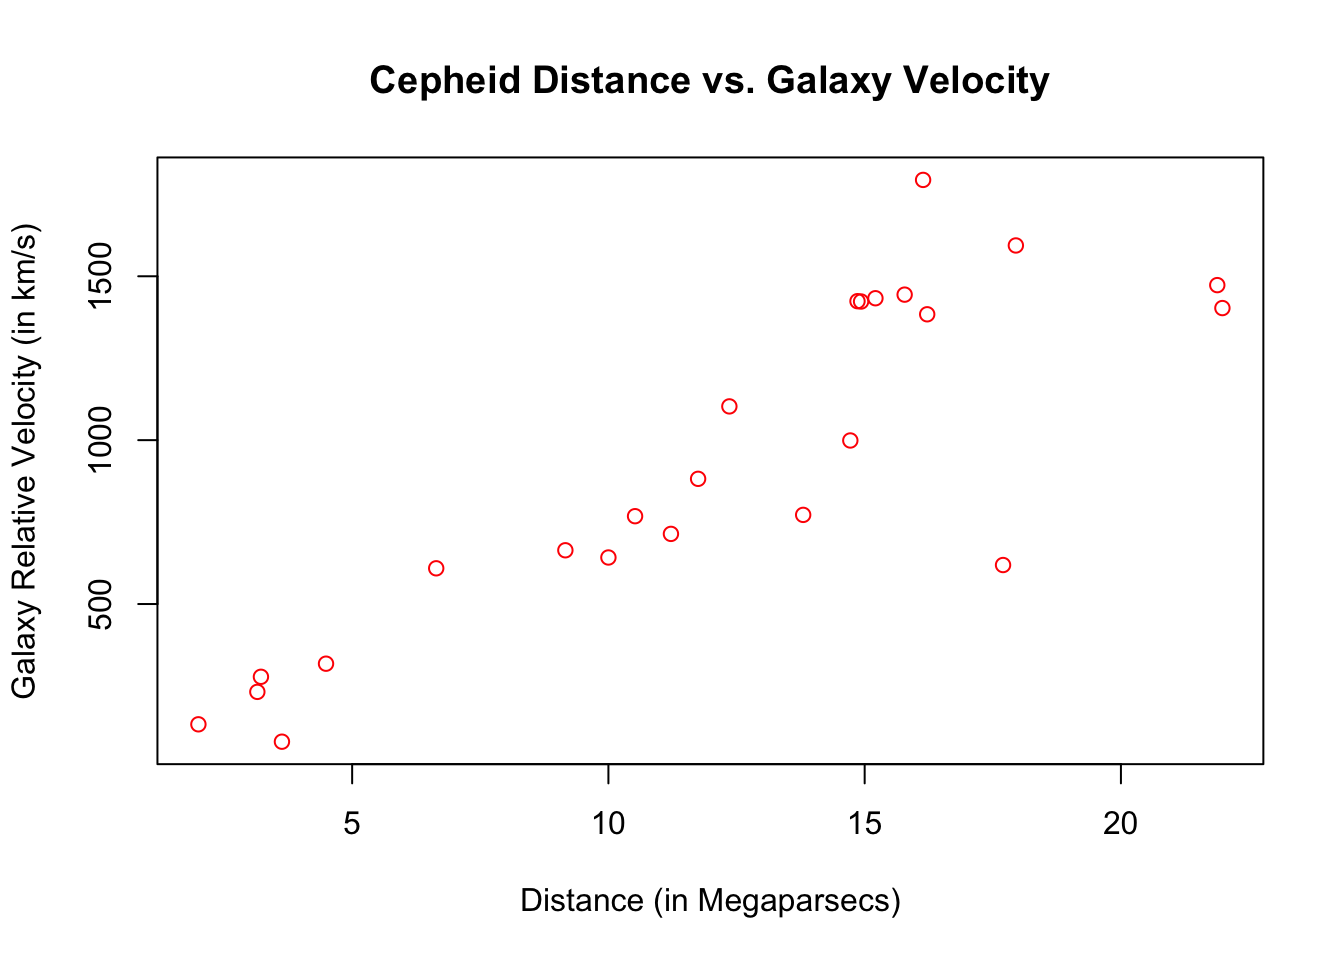
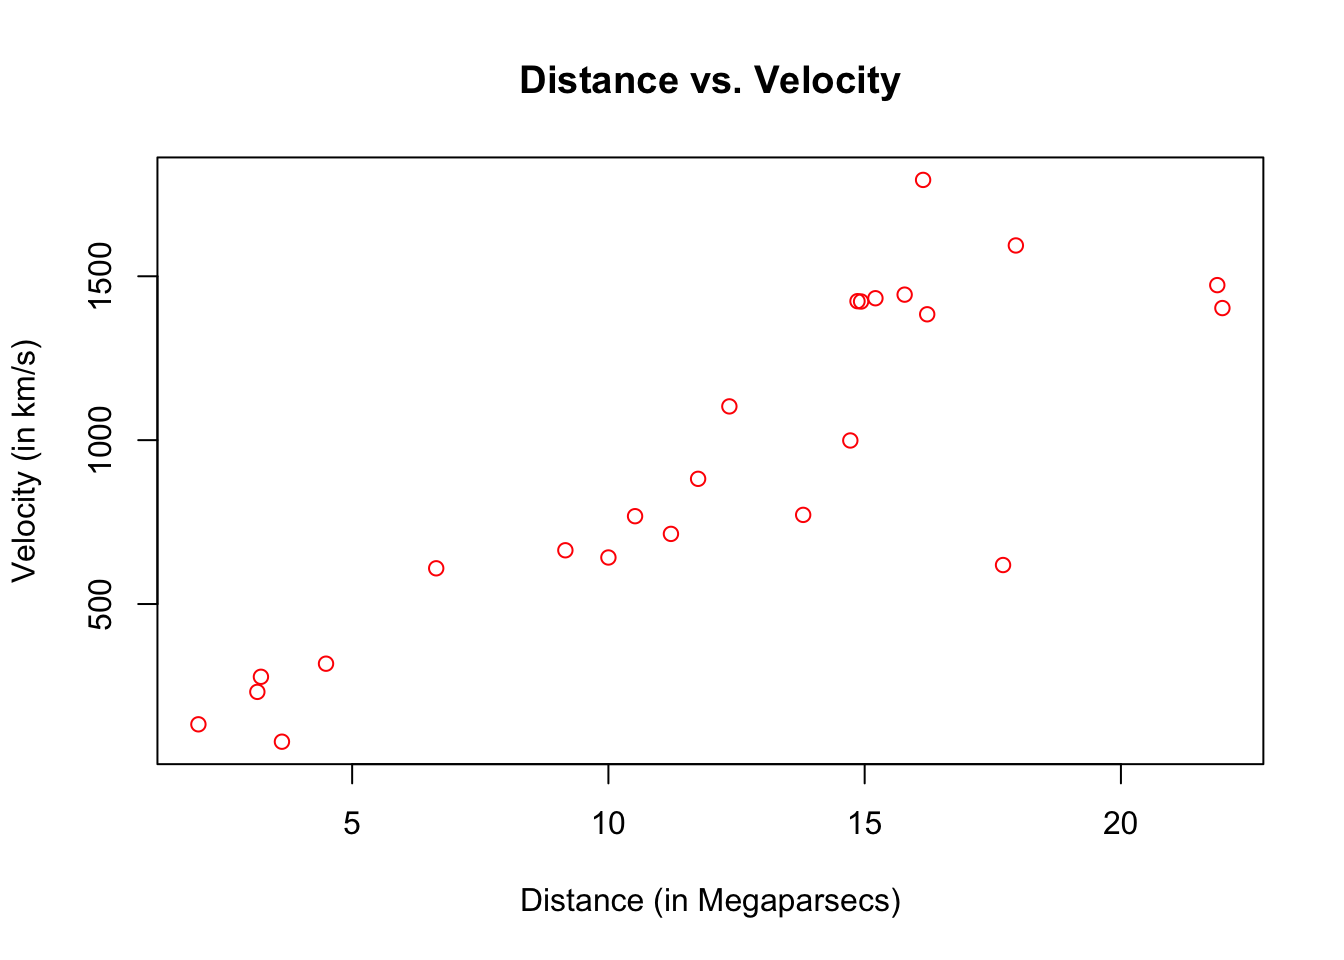
completed hubble example (chap 2)

Changed region(s): [[0.25, 0.0625, 0.7812, 0.125], [0.0, 0.2188, 0.0312, 0.7188]]

diff --git a/data.html b/data.html
@@ -495,10 +495,10 @@ Here we could add some remarks on weird cases, for example <code>grand_slam_win[
 <h3><span class="header-section-number">1.1.8</span> Example: Apple Stock Price</h3>
 <p>Suppose that one is interested in analysing the behavior of Apple’s stock price over the last three months. The first thing that is needed is today’s date which can be obtained as follows</p>
 <div class="sourceCode"><pre class="sourceCode r"><code class="sourceCode r">(<span class="dt">today =</span> <span class="kw">Sys.Date</span>())</code></pre></div>
-<pre><code>## [1] &quot;2017-07-30&quot;</code></pre>
+<pre><code>## [1] &quot;2017-08-01&quot;</code></pre>
 <p>Once this is done, we can obtain the date which is exactly three monmths ago</p>
 <div class="sourceCode"><pre class="sourceCode r"><code class="sourceCode r">(<span class="dt">three_months_ago =</span> <span class="kw">seq</span>(today, <span class="dt">length =</span> <span class="dv">2</span>, <span class="dt">by =</span> <span class="st">&quot;-3 months&quot;</span>)[<span class="dv">2</span>])</code></pre></div>
-<pre><code>## [1] &quot;2017-04-30&quot;</code></pre>
+<pre><code>## [1] &quot;2017-05-01&quot;</code></pre>
 <p>With this information, we can now download Apple’s stock price and represent these stocks through a candlestick chart which summarizes information on daily opening and closing prices as well as minimum and maximum prices.</p>
 <p>Just to note, <code>library()</code> loads and attaches add-on packages.</p>
 <div class="sourceCode"><pre class="sourceCode r"><code class="sourceCode r"><span class="kw">library</span>(quantmod)
@@ -514,9 +514,9 @@ Here we could add some remarks on weird cases, for example <code>grand_slam_win[
 <div class="sourceCode"><pre class="sourceCode r"><code class="sourceCode r">AAPL_returns =<span class="st"> </span><span class="kw">as.numeric</span>(<span class="kw">na.omit</span>(<span class="kw">ClCl</span>(AAPL)))</code></pre></div>
 <p>where <code>na.omit</code> is used to remove missing values in the stock prices vector since, if we have <span class="math inline">\(n+1\)</span> stock prices, we will only have <span class="math inline">\(n\)</span> returns and <code>as.numeric</code> is used to transform the computed returns into a numeric vector. We can now compute the mean and median of the returns over the considered period.</p>
 <div class="sourceCode"><pre class="sourceCode r"><code class="sourceCode r"><span class="kw">mean</span>(AAPL_returns)</code></pre></div>
-<pre><code>## [1] 0.0003870694</code></pre>
+<pre><code>## [1] 0.000299171</code></pre>
 <div class="sourceCode"><pre class="sourceCode r"><code class="sourceCode r"><span class="kw">median</span>(AAPL_returns)</code></pre></div>
-<pre><code>## [1] 0.002557922</code></pre>
+<pre><code>## [1] 0.002366446</code></pre>
 <p>However, a statistic that is of particular interest to financial operators is the Excess Kurtosis which, for a random variable that we denote as <span class="math inline">\(X\)</span>, can be defined as</p>
 <span class="math display">\[\begin{equation}
   \text{Kurt} = \frac{{E}\left[\left(X - E[X]\right)^4\right]}{\left({E}\left[\left(X - E[X]\right)^2\right]\right)^2} - 3
@@ -531,7 +531,7 @@ Here we could add some remarks on weird cases, for example <code>grand_slam_win[
 \end{equation}\]</span>
 <div class="sourceCode"><pre class="sourceCode r"><code class="sourceCode r">mu =<span class="st"> </span><span class="kw">mean</span>(AAPL_returns)
 (<span class="dt">k =</span> <span class="kw">mean</span>((AAPL_returns -<span class="st"> </span>mu)^<span class="dv">4</span>)/(<span class="kw">mean</span>((AAPL_returns -<span class="st"> </span>mu)^<span class="dv">2</span>))^<span class="dv">2</span> -<span class="st"> </span><span class="dv">3</span>)</code></pre></div>
-<pre><code>## [1] 2.004566</code></pre>
+<pre><code>## [1] 2.029041</code></pre>
 <p>which is quite high tends to indicate the returns have a heavier tails than the normal distribution.</p>
 </div>
 </div>
@@ -797,24 +797,24 @@ y =<span class="st"> </span><span class="kw">rnorm</span>(n, <span class="dv">3<
 <span class="co"># Sample mean</span>
 one =<span class="st"> </span><span class="kw">rep</span>(<span class="dv">1</span>, n)
 (<span class="dt">x_bar =</span> <span class="dv">1</span>/n*<span class="kw">sum</span>(x))</code></pre></div>
-<pre><code>## [1] 0.1321123</code></pre>
+<pre><code>## [1] -0.04324989</code></pre>
 <div class="sourceCode"><pre class="sourceCode r"><code class="sourceCode r">(<span class="dt">x_bar_mat =</span> <span class="dv">1</span>/n*<span class="kw">t</span>(x)%*%one)</code></pre></div>
-<pre><code>##           [,1]
-## [1,] 0.1321123</code></pre>
+<pre><code>##             [,1]
+## [1,] -0.04324989</code></pre>
 <div class="sourceCode"><pre class="sourceCode r"><code class="sourceCode r"><span class="co"># Sample variance</span>
 H =<span class="st"> </span><span class="kw">diag</span>(<span class="kw">rep</span>(<span class="dv">1</span>, n)) -<span class="st"> </span><span class="dv">1</span>/n *<span class="st"> </span>one %*%<span class="st"> </span><span class="kw">t</span>(one)
 (<span class="dt">s_x =</span> <span class="dv">1</span>/n *<span class="st"> </span><span class="kw">sum</span>((x -<span class="st"> </span>x_bar)^<span class="dv">2</span>))</code></pre></div>
-<pre><code>## [1] 3.331476</code></pre>
+<pre><code>## [1] 3.441427</code></pre>
 <div class="sourceCode"><pre class="sourceCode r"><code class="sourceCode r">(<span class="dt">s_x_mat =</span> <span class="dv">1</span>/n*<span class="kw">t</span>(x) %*%<span class="st"> </span>H %*%<span class="st"> </span>x)</code></pre></div>
 <pre><code>##          [,1]
-## [1,] 3.331476</code></pre>
+## [1,] 3.441427</code></pre>
 <div class="sourceCode"><pre class="sourceCode r"><code class="sourceCode r"><span class="co"># Sample covariance</span>
 y_bar =<span class="st"> </span><span class="dv">1</span>/n*<span class="kw">sum</span>(y)
 (<span class="dt">s_xy =</span> <span class="dv">1</span>/n*<span class="kw">sum</span>((x -<span class="st"> </span>x_bar)*(y -<span class="st"> </span>y_bar)))</code></pre></div>
-<pre><code>## [1] 0.1647456</code></pre>
+<pre><code>## [1] 0.225873</code></pre>
 <div class="sourceCode"><pre class="sourceCode r"><code class="sourceCode r">(<span class="dt">s_xy_mat =</span> <span class="dv">1</span>/n*<span class="kw">t</span>(x) %*%<span class="st"> </span>H %*%<span class="st"> </span>y)</code></pre></div>
-<pre><code>##           [,1]
-## [1,] 0.1647456</code></pre>
+<pre><code>##          [,1]
+## [1,] 0.225873</code></pre>
 </div>
 <div id="example-least-squares" class="section level3">
 <h3><span class="header-section-number">1.2.4</span> Example: Least-squares</h3>
@@ -896,40 +896,74 @@ which verifies Eq. <a href="#eq:lsformula">(1.1)</a>.
 \end{equation}\]</span>
 <p>DO YOU GUYS THINK WE SHOULD SHOW THE UNBIASEDNESS IN BOX HERE. THIS IS A LITTLE MORE ADVANCED AS WE NEED TO USE PROJECTION MATRICES AND THEIR PROPERTIES. LET ME KNOW.</p>
 <p>ROB COMMENT: Maybe I’d ask them to show the unbiasdness as homework either theoretically or giving numerical support to the claim (e.g. the mean of different beta hats is close to the true beta)</p>
-<p>Let’s implement Eq. <a href="#eq:lsformula">(1.1)</a> to <a href="#eq:lssig2hat">(1.3)</a> and compare the outcome with the <code>lm()</code> function for linear regression implemented in base R. As for the other functions, we can expect</p>
-<p>Before doing maybe we could use the dataset <code>hubble</code>. I think it is quite cool as it can be used to estimate the “age” of the universe and test wether the estimate of the age of the universe by Creation Scientists (based on a reading of the Bible) is reasonable. This is an example based on Simon Woods book. If we do this example, we should add something on confidence interval and I think he could the normal distribution (instead of t-distribution) to avoid going into details. Anyway the t-test relies on Normal assumption which is hard to verify. In the following chapter, we could use this example to show the various form of boostrap (parametric, non-parametric, semi-parametric). Let me know what you think.</p>
+<p>Let’s implement Eq. <a href="#eq:lsformula">(1.1)</a> to <a href="#eq:lssig2hat">(1.3)</a> and, later, compare the outcome with the <code>lm()</code> function for linear regression implemented in base R. To do so, we will study an example taken from <span class="citation">@wood2017generalized</span> which discusses a dataset collected from the Hubble Space Telescope key project containing information on the velocity and relative distance of 24 galaxies. This information has been used to compute the “Hubble constant’’ which is a fixed parameter that links velocity and distance of celestial bodies through which it is possible to compute the age of the universe based on the”big bang&quot; theory. The link is given by this simple linear relationship</p>
+<span class="math display">\[\begin{equation*}
+  y = \beta x ,
+\end{equation*}\]</span>
+<p>where <span class="math inline">\(y\)</span> represents the velocity while <span class="math inline">\(x\)</span> is the distance between galaxies. Once the Hubble constant is known, its inverse (i.e. <span class="math inline">\(\beta^{-1}\)</span>) gives the age of the universe based on the big bang theory.</p>
+<p>Therefore let us use the abovementioned dataset to estimate Hubble’s constant to then get an estimate of the age of the universe. This dataset can be found in the <code>gamair</code> package under the name <code>hubble</code> and, if plotting the two variables of interest in a scatterplot there appears to be a positive linear relationship between the two variables.</p>
 <div class="sourceCode"><pre class="sourceCode r"><code class="sourceCode r"><span class="co"># Load gamair library and retrieve Hubble dataset</span>
 <span class="kw">library</span>(gamair)
 <span class="kw">data</span>(hubble)
 
 <span class="co"># Plot data</span>
-<span class="kw">plot</span>(<span class="dt">y =</span> hubble$y, <span class="dt">x =</span> hubble$x, <span class="dt">col=</span><span class="st">&quot;red&quot;</span>, <span class="dt">main=</span><span class="st">&quot;Cepheid Distance vs. Galaxy Velocity&quot;</span>, <span class="dt">ylab =</span> <span class="st">&quot;Galaxy Relative Velocity (in km/s)&quot;</span>, <span class="dt">xlab =</span> <span class="st">&quot;Distance (in Megaparsecs)&quot;</span>)</code></pre></div>
+<span class="kw">plot</span>(<span class="dt">y =</span> hubble$y, <span class="dt">x =</span> hubble$x, <span class="dt">col=</span><span class="st">&quot;red&quot;</span>, <span class="dt">main=</span><span class="st">&quot;Distance vs. Velocity&quot;</span>, <span class="dt">ylab =</span> <span class="st">&quot;Velocity (in km/s)&quot;</span>, <span class="dt">xlab =</span> <span class="st">&quot;Distance (in Megaparsecs)&quot;</span>)</code></pre></div>
 <p><img src="01-data_files/figure-html/unnamed-chunk-56-1.png" width="672" /></p>
-<div class="sourceCode"><pre class="sourceCode r"><code class="sourceCode r"><span class="co"># Data parameters</span>
+<p>Putting aside possible problems with the data that would require a more in-depth knowledge and discussion of linear regression theory, we can proceed to estimate the Hubble constant by using the velocity as the response variable <span class="math inline">\(y\)</span> and the distance as the explanatory variable <span class="math inline">\(x\)</span>. Let us therefore start by implementing Eq. <a href="#eq:lsformula">(1.1)</a> to get an estimate of <span class="math inline">\(\beta\)</span>.</p>
+<div class="sourceCode"><pre class="sourceCode r"><code class="sourceCode r"><span class="co"># Define parameters and variables</span>
 n =<span class="st"> </span><span class="kw">dim</span>(hubble)[<span class="dv">1</span>] <span class="co"># number of observations</span>
-p =<span class="st"> </span><span class="dv">2</span> <span class="co"># number of parameters to estimate (i.e. length of beta)</span>
+p =<span class="st"> </span><span class="dv">1</span> <span class="co"># number of explanatory variables</span>
 df =<span class="st"> </span>n -<span class="st"> </span>p <span class="co"># degrees of freedom</span>
+x =<span class="st"> </span>hubble$x <span class="co"># distance (explanatory variable)</span>
+y =<span class="st"> </span>hubble$y <span class="co"># velocity (response variable)</span>
 
 <span class="co"># Estimate of beta from Eq. (1.1)</span>
-beta.hat =<span class="st"> </span><span class="kw">solve</span>(<span class="kw">t</span>(hubble$x)%*%hubble$x)%*%<span class="kw">t</span>(hubble$x)%*%hubble$y
-
-<span class="co"># Estimate of the residual variance from Eq. (1.3)</span>
-resid =<span class="st"> </span>hubble$y -<span class="st"> </span>hubble$x*beta.hat
+beta.hat =<span class="st"> </span><span class="kw">solve</span>(<span class="kw">t</span>(x)%*%x)%*%<span class="kw">t</span>(x)%*%y</code></pre></div>
+<p>We now have an estimated value for <span class="math inline">\(\beta\)</span> that we denote as <span class="math inline">\(\hat{\beta}\)</span>. Due to different measurement units we perform a unit transformation and then compute the age in years (which requires an additional transformation since the previous one gives a unit of <span class="math inline">\(s^{-1}\)</span>).</p>
+<div class="sourceCode"><pre class="sourceCode r"><code class="sourceCode r">hubble.const =<span class="st"> </span>beta.hat/<span class="fl">3.09e19</span> <span class="co"># Estimated Hubble&#39;s constant in inverse seconds</span>
+age.sec =<span class="st"> </span><span class="dv">1</span>/hubble.const <span class="co"># Age of the universe in seconds</span>
+age.sec/(<span class="dv">60</span>^<span class="dv">2</span>*<span class="dv">24</span>*<span class="dv">365</span>) <span class="co"># Age of the universe in years</span></code></pre></div>
+<pre><code>##             [,1]
+## [1,] 12794692825</code></pre>
+<p>Based on this estimation, the age of the universe appears to be almost 13 billion years. However, we know that <span class="math inline">\(\hat{\beta}\)</span> is a random variable that therefore follows a distribution which, based on asymptotic statistical theory, is a normal distribution with expectaton <span class="math inline">\(\beta\)</span> and variance <span class="math inline">\(\sigma^2(X^TX)^{-1}\)</span>. Suppose that we have a hypothesis on the age of the universe, for example that of Creation Scientists who claim that the universe is 6000 years old based on a reading from the Bible. Assuming the validity of the big bang theory, which is not the case for Creation Scientists, let us nevertheless test if their claim appears to be reasonable within this postulated framework. In order to do so we need to know the variance of <span class="math inline">\(\hat{\beta}\)</span> and we consequently need to estimate <span class="math inline">\(\sigma^2\)</span> since we don’t know it. Let us therefore use Eq. <a href="#eq:lsvar">(1.2)</a> and <a href="#eq:lssig2hat">(1.3)</a> to compute it.</p>
+<div class="sourceCode"><pre class="sourceCode r"><code class="sourceCode r"><span class="co"># Estimate of the residual variance from Eq. (1.3)</span>
+resid =<span class="st"> </span>y -<span class="st"> </span>x*beta.hat
 sigma2.hat =<span class="st"> </span>(<span class="dv">1</span>/df)*<span class="kw">t</span>(resid)%*%resid
 
 <span class="co"># Estimate of the variance of the estimated beta from Eq. (1.2)</span>
-var.beta =<span class="st"> </span>sigma2.hat*<span class="kw">solve</span>(<span class="kw">t</span>(hubble$x)%*%hubble$x)
-
-<span class="co"># Linear regression with lm() function</span>
-fit_lm =<span class="st"> </span><span class="kw">lm</span>(hubble$y~hubble$x)
+var.beta =<span class="st"> </span>sigma2.hat*<span class="kw">solve</span>(<span class="kw">t</span>(x)%*%x)</code></pre></div>
+<p>We now have all the information regarding the distribution of <span class="math inline">\(\hat{\beta}\)</span> to test the Creation Scientists’ hypothesis. Indeed, for this purpose we can build a 95% confidence interval for the true Hubble constant <span class="math inline">\(\beta\)</span> and understand if the Hubble constant implied by the postulated age of the universe falls within this interval. Firstly, we can determine this constant under the null hypothesis which can be defined as follows</p>
+<span class="math display">\[\begin{equation*}
+  H_0 \, : \, \beta = 163 \times 10^6 ,
+\end{equation*}\]</span>
+<p>since this value of <span class="math inline">\(\beta\)</span> would imply that the universe is roughly 6000 years old. The alternative hypothesis is that the true <span class="math inline">\(\beta\)</span> is not equal to the above quantity (i.e. <span class="math inline">\(H_A \, : \, \beta \neq 163 \times 10^6\)</span>). Since we now have the necessary information, let us build a confidence interval for which we will assume that the estimated variance of <span class="math inline">\(\hat{\beta}\)</span> is actually the true variance (otherwise we would need to build a confidence interval based on the Student-t distribution which we will not deal with at this stage of our analysis). Assuming therefore that</p>
+<span class="math display">\[\begin{equation*}
+  \hat{\beta} \sim \mathcal{N}\left(\beta,\sigma^2(X^TX)^{-1}\right) ,
+\end{equation*}\]</span>
+<p>we consequently have that the confidence interval is given by</p>
+<span class="math display" id="eq:cibeta">\[\begin{equation}
+  \left[\hat{\beta} - z_{1-\alpha/2}\sqrt{\sigma^2(X^TX)^{-1}} \, , \, \hat{\beta} + z_{1-\alpha/2}\sqrt{\sigma^2(X^TX)^{-1}} \right] ,
+  \tag{1.4}
+\end{equation}\]</span>
+<p>where <span class="math inline">\(z_{1-\alpha/2}\)</span> is the <span class="math inline">\((1-\alpha/2)^{th}\)</span> quantile of the standard normal distribution where, in our case, <span class="math inline">\(\alpha = 0.05\)</span> which delivers a 95% confidence interval. Let us therefore replace the values in Eq. <a href="#eq:cibeta">(1.4)</a>:</p>
+<div class="sourceCode"><pre class="sourceCode r"><code class="sourceCode r"><span class="co"># 95% confidence interval for the Hubble constant</span>
+ci.beta =<span class="st"> </span><span class="kw">c</span>(beta.hat -<span class="st"> </span><span class="kw">qnorm</span>(<span class="dt">p =</span> <span class="fl">0.975</span>)*<span class="kw">sqrt</span>(var.beta), beta.hat +<span class="st"> </span><span class="kw">qnorm</span>(<span class="dt">p =</span> <span class="fl">0.975</span>)*<span class="kw">sqrt</span>(var.beta))
+ci.beta</code></pre></div>
+<pre><code>## [1] 68.81032 84.35203</code></pre>
+<p>The confidence interval lies between 68 and 84 which clearly does not contain the value implied by the age of the universe postulated by the Creation Scientists. Hence, assuming the validity of the big bang theory, we can reject this hypothesis at a 95% level. To conclude this analysis, let us compare the results of Eq. <a href="#eq:lsformula">(1.1)</a> to <a href="#eq:lssig2hat">(1.3)</a> with the outputs of the linear regression function <code>lm()</code> that can be found in base R.</p>
+<div class="sourceCode"><pre class="sourceCode r"><code class="sourceCode r"><span class="co"># Linear regression with lm() function</span>
+fit_lm =<span class="st"> </span><span class="kw">lm</span>(y~x<span class="dv">-1</span>)
 
 <span class="co"># Compare outputs</span>
-manual_results =<span class="st"> </span><span class="kw">c</span>(beta.hat, sigma2.hat)
-function_results =<span class="st"> </span><span class="kw">c</span>(fit_lm$coefficients[<span class="dv">2</span>], <span class="kw">var</span>(fit_lm$residuals))
-<span class="kw">cbind</span>(manual_results, function_results)</code></pre></div>
-<pre><code>##          manual_results function_results
-## hubble$x       76.58117         76.12696
-##             70093.89218      67037.80088</code></pre>
+equation_results =<span class="st"> </span><span class="kw">c</span>(beta.hat, sigma2.hat)
+function_results =<span class="st"> </span><span class="kw">c</span>(fit_lm$coefficients[<span class="dv">1</span>], (<span class="dv">1</span>/df)*<span class="kw">t</span>(fit_lm$residuals)%*%fit_lm$residuals)
+results =<span class="st"> </span><span class="kw">cbind</span>(equation_results, function_results)
+<span class="kw">row.names</span>(results) =<span class="st"> </span><span class="kw">c</span>(<span class="st">&quot;beta.hat&quot;</span>, <span class="st">&quot;sigma2.hat&quot;</span>)
+results</code></pre></div>
+<pre><code>##            equation_results function_results
+## beta.hat           76.58117         76.58117
+## sigma2.hat      67046.33165      67046.33165</code></pre>
+<p>As one can notice, the two procedures give exactly the same outputs.</p>
 </div>
 </div>
 <div id="array" class="section level2">
@@ -975,7 +1009,7 @@ map &lt;-<span class="st"> </span><span class="kw">get_map</span>(<span class="d
              <span class="kw">aes</span>(lon, lat, <span class="dt">col =</span> Players, <span class="dt">size =</span> GS)) +<span class="st"> </span>
 <span class="st">             </span><span class="kw">scale_size</span>(<span class="dt">name=</span><span class="st">&quot;Grand Slam Wins&quot;</span>) +<span class="st"> </span>
 <span class="st">             </span><span class="kw">xlab</span>(<span class="st">&quot;Longitude&quot;</span>) +<span class="st"> </span><span class="kw">ylab</span>(<span class="st">&quot;Latitude&quot;</span>)</code></pre></div>
-<p><img src="01-data_files/figure-html/unnamed-chunk-65-1.png" width="720" style="display: block; margin: auto;" /></p>
+<p><img src="01-data_files/figure-html/unnamed-chunk-70-1.png" width="720" style="display: block; margin: auto;" /></p>
 </div>
 </div>
 <div id="data-frames" class="section level2">
